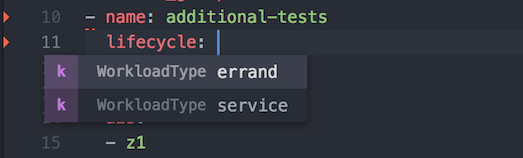
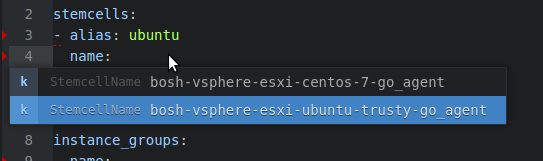
Change readme and imgs to show some more dynamic CA.

diff --git a/README.MD b/README.MD
@@ -30,12 +30,12 @@ an error marker to see an explanation:
 ### Content assist
 
 Having trouble remembering all the names of the attributes, and their spelling? Or can't remember
-what lifecycle values are available? Content assist
+the exact name/version of the stemcell you just uploaded to your bosh environment? Content assist
 to the rescue:
 
 ![Content Assist Screenshot][ca1]
 
-![Content Assist Screenshot][ca2]
+![Content Assist Screenshot][ca3]
 
 ### Documentation Hovers
 
@@ -156,16 +156,16 @@ If you subsequently launch Atom from that same terminal the dynamic CA and linti
 6. Open any `pipeline.yml` or `task.yml` file in Atom observe reconciling, content assist and other IDE features
 
 [linting]:
-https://raw.githubusercontent.com/spring-projects/atom-bosh/97ee33d258fa084387cbfbd9cf2769f50d4e8462/readme-imgs/linting.png
+https://raw.githubusercontent.com/spring-projects/atom-bosh/master/readme-imgs/linting.png
 
 [ca1]:
-https://raw.githubusercontent.com/spring-projects/atom-bosh/97ee33d258fa084387cbfbd9cf2769f50d4e8462/readme-imgs/ca1.png
+https://raw.githubusercontent.com/spring-projects/atom-bosh/master/readme-imgs/ca1.png
 
 [ca2]:
-https://raw.githubusercontent.com/spring-projects/atom-bosh/ea02d9f0a6073beb2f7f8852df5efe306e00defb/readme-imgs/ca2.png
+https://raw.githubusercontent.com/spring-projects/atom-bosh/master/readme-imgs/ca2.png
 
 [hovers]:
-https://raw.githubusercontent.com/spring-projects/atom-bosh/97ee33d258fa084387cbfbd9cf2769f50d4e8462/readme-imgs/hovers.png
+https://raw.githubusercontent.com/spring-projects/atom-bosh/master/readme-imgs/hovers.png
 
 [outline_view]:
-https://raw.githubusercontent.com/spring-projects/atom-bosh/bdd2ab880a6e7ee20842df679deee46f12b59ef4/readme-imgs/outline_view.png
+https://raw.githubusercontent.com/spring-projects/atom-bosh/master/readme-imgs/outline_view.png
